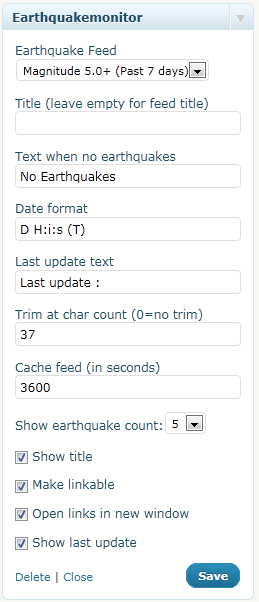
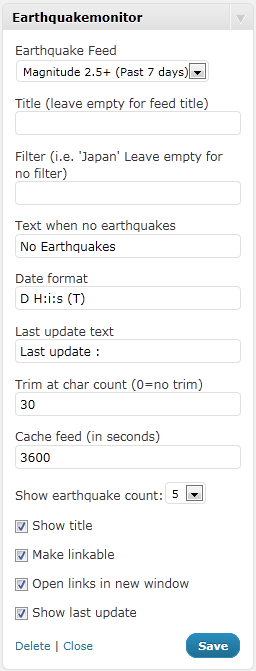
V1.2 Released. Added Filter option
git-svn-id: https://plugins.svn.wordpress.org/earthquakemonitor/trunk@386017 b8457f37-d9ea-0310-8a92-e5e31aec5664

diff --git a/EarthquakeMonitor.php b/EarthquakeMonitor.php
@@ -1,7 +1,7 @@
 <?php
 /*
 Plugin Name: Earthquakemonitor Widget
-Version: 1.1
+Version: 1.2
 Plugin URI: http://wordpress.org/extend/plugins/Earthquakemonitor
 Description: Earthquake Monitor is a customizable widget that shows an overview of earthquakes around the world from the U.S. Geological Surveys data. 
 Author: Cris van Geel
@@ -46,6 +46,7 @@ class EarthQuakeMonitor extends WP_Widget {
 															'showupdateformat' => 'D H:i:s (T)', 
 															'lastupdatetxt' => 'Last update :', 
 															'customtitle' => '',
+															'filter' => '*',
 															'eqmcachetimer' => 3600,
 															'show' => 5, 
 															'trim' => 30, 
@@ -58,6 +59,7 @@ class EarthQuakeMonitor extends WP_Widget {
 		$showupdateformat = esc_attr($instance['showupdateformat']);
 		$lastupdatetxt = esc_attr($instance['lastupdatetxt']);
 		$customtitle = esc_attr($instance['customtitle']);
+		$filter = esc_attr($instance['filter']);
 		$trim = absint($instance['trim']);
 		$eqmcachetimer = absint($instance['eqmcachetimer']);
 		$feed = esc_attr($instance['feed']);
@@ -83,10 +85,15 @@ class EarthQuakeMonitor extends WP_Widget {
 		echo "</select></p>";
 
 		
-		/* Text for No Earthquakes */
+		/* Text for No Custom Title */
 		echo "<p><label for='" . $this->get_field_id('customtitle') ."'>". esc_html__('Title (leave empty for feed title)')."</label>";
 		echo "<input class='widefat' id='" . $this->get_field_id('customtitle') . "' name='" . $this->get_field_name('customtitle') . "' type='text' value='" . $customtitle . "' /></p>";
-				
+		
+		/* Filter */
+		echo "<p><label for='" . $this->get_field_id('filter') ."'>". esc_html__('Filter (i.e. \'Japan\' Leave empty for no filter)')."</label>";
+		echo "<input class='widefat' id='" . $this->get_field_id('filter') . "' name='" . $this->get_field_name('filter') . "' type='text' value='" . $filter . "' /></p>";
+		
+		
 		/* Text for No Earthquakes */
 		echo "<p><label for='" . $this->get_field_id('noearthquakes') ."'>". esc_html__('Text when no earthquakes')."</label>";
 		echo "<input class='widefat' id='" . $this->get_field_id('noearthquakes') . "' name='" . $this->get_field_name('noearthquakes') . "' type='text' value='" . $noearthquakes . "' /></p>";
@@ -155,6 +162,7 @@ class EarthQuakeMonitor extends WP_Widget {
 			$instance['showupdateformat'] = trim ($new_instance['showupdateformat']);
 			$instance['lastupdatetxt'] = trim( strip_tags( stripslashes( $new_instance['lastupdatetxt'] ) ) );
 			$instance['customtitle'] = trim( strip_tags( stripslashes( $new_instance['customtitle'] ) ) );
+			$instance['filter'] = trim( strip_tags( stripslashes( $new_instance['filter'] ) ) );
 			$instance['show'] = absint($new_instance['show']);
 			$instance['trim'] = absint($new_instance['trim']);
 			$instance['eqmcachetimer'] = absint($new_instance['eqmcachetimer']);
@@ -187,7 +195,7 @@ class EarthQuakeMonitor extends WP_Widget {
 			return;
 	}
 	
-	function retrievexml($feed,$cachetimer) {
+	function retrievexml($feed,$cachetimer,$myfilter) {
 	
 		if (time()- $cachetimer > filemtime('eqmdata')) {
 		
@@ -205,14 +213,20 @@ class EarthQuakeMonitor extends WP_Widget {
 	
 		
 		$tempXML = simplexml_load_string($stringXML);
-		return $tempXML;
+		$result = $tempXML->xpath("(//channel/item)[contains(., '".$myfilter."')]");
+
+		$this->lastupdate = $tempXML->channel->pubDate;
+		$this->maintitle = $tempXML->channel->title;
+		
+		return $result;
+		
 		}
 		
 	function widget($args, $instance) {
 	
 		extract( $args );	
 		
-		$objXML = $this->retrievexml($instance['feed'],absint($instance['eqmcachetimer']));
+		$arrayXML = $this->retrievexml($instance['feed'],absint($instance['eqmcachetimer']),$instance['filter']);
 
 		echo $before_widget;
 				
@@ -222,13 +236,13 @@ class EarthQuakeMonitor extends WP_Widget {
 					echo "{$before_title}".$instance["customtitle"]."{$after_title}";
 				}
 				else {
-					echo "{$before_title}{$objXML->channel->title}{$after_title}";
+					echo "{$before_title}".$this->maintitle."{$after_title}";
 				}	
 				
 			}
 		
 		echo "<ul>\n";		
-		$intCount = count($objXML->channel->item);
+		$intCount = count($arrayXML);
 		
 		if ($intCount == 0) {
 			echo "<li>".$instance['noearthquakes']."</li>";
@@ -243,7 +257,7 @@ class EarthQuakeMonitor extends WP_Widget {
 		
 		for ($i = 0; $i < $max; $i++) {
 		
-		$title = $objXML->channel->item[$i]->title;
+		$title = $arrayXML[$i]->title;
 			
 			if ($instance['trim'] > 0 and strlen($title) > $instance['trim'] ) 
 				{
@@ -260,7 +274,7 @@ class EarthQuakeMonitor extends WP_Widget {
 			else 
 				{ $target = "_top"; };
 			
-			echo "<li><a target='{$target}' title='{$objXML->channel->item[$i]->description} {$objXML->channel->item[$i]->title} ' href='{$objXML->channel->item[$i]->link}'>{$title}</a></li>\n";
+			echo "<li><a target='{$target}' title='{$arrayXML[$i]->description} {$arrayXML[$i]->title} ' href='{$arrayXML[$i]->link}'>{$title}</a></li>\n";
 			}
 				
 		}
@@ -269,7 +283,7 @@ class EarthQuakeMonitor extends WP_Widget {
 		
 		if ($instance['showupdate']) {
 		
-			$tmp_date = strtotime($objXML->channel->pubDate);
+			$tmp_date = strtotime($this->lastupdate);
 			$date = date($instance['showupdateformat'],$tmp_date);
 			echo $instance['lastupdatetxt']." {$date}\n";
 		}
